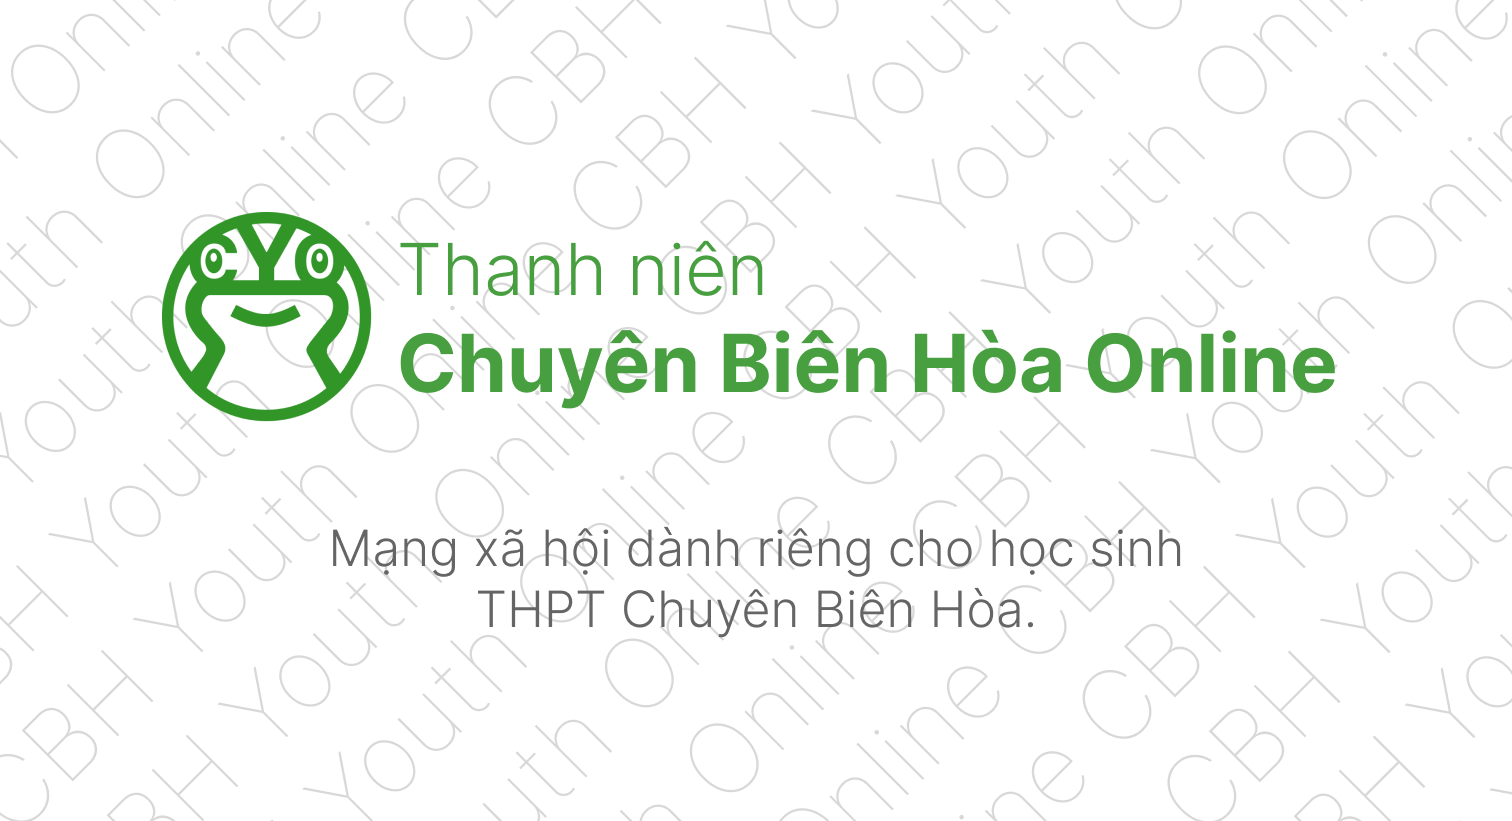
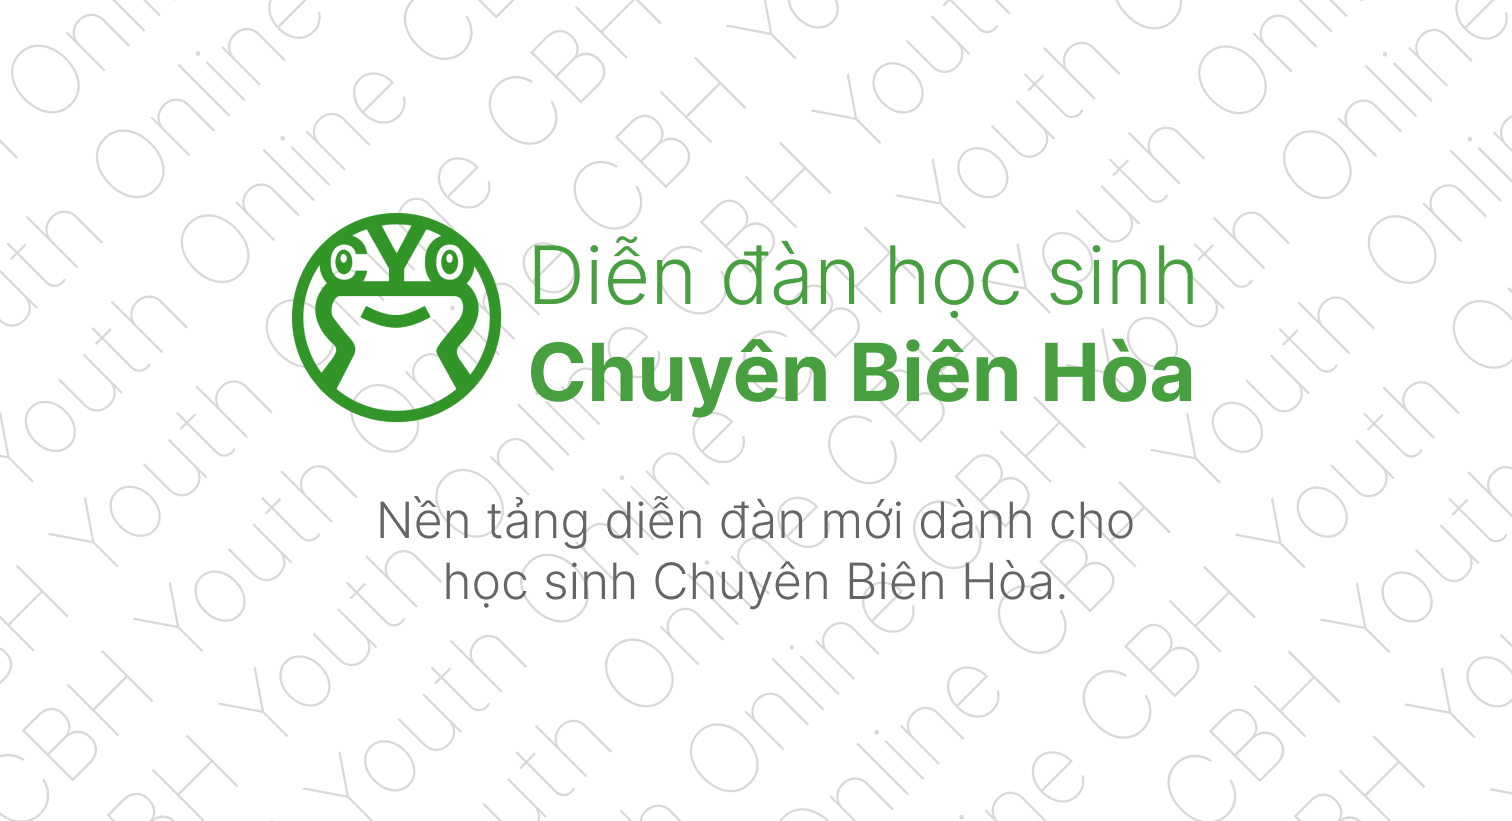
update head meta and image

Changed region(s): [[0.0933, 0.2436, 0.9015, 0.5177], [0.2176, 0.609, 0.7771, 0.7613]]

diff --git a/app/Views/includes/head.blade.php b/app/Views/includes/head.blade.php
@@ -3,7 +3,7 @@
 <title>{{ !empty($title) && $title != 'Diễn đàn' ? $title . ' - ' : '' }}Diễn đàn học sinh Chuyên Biên Hòa</title>
 <!-- Meta tag dành cho SEO -->
 <meta property="og:title"
-    content="{{ $title ?? 'Diễn đàn học sinh Chuyên Biên Hòa' == 'Diễn đàn' ? 'Diễn đàn Học sinh Chuyên Biên Hòa' : $title }}" />
+    content="{{ $title ?? 'Diễn đàn học sinh Chuyên Biên Hòa' == 'Diễn đàn' ? 'Diễn đàn học sinh Chuyên Biên Hòa' : $title }}" />
 <meta name="description"
     content="{{ $description ?? 'Diễn đàn học sinh Chuyên Biên Hòa thuộc Trường THPT Chuyên Hà Nam' }}">
 <meta property='og:description'
@@ -11,7 +11,7 @@
 <meta name="author" content="{{ $author ?? 'Đội ngũ CBH Youth Online' }}">
 <meta name="keywords"
     content="{{ $keywords ??
-        'thpt chuyen ha nam, thanh nien chuyen bien hoa, thanh nien chuyen bien hoa online, thpt chuyen bien hoa, chuyen bien hoa, chuyen ha nam, cyo, cbh youth online, chuyen bien hoa online, chuyên biên hòa online' }}">
+    'thpt chuyen ha nam, thanh nien chuyen bien hoa, thanh nien chuyen bien hoa online, thpt chuyen bien hoa, chuyen bien hoa, chuyen ha nam, cyo, cbh youth online, chuyen bien hoa online, chuyên biên hòa online' }}">
 <link rel="icon" href="/assets/images/logo.png" type="image/png" sizes="32x32" />
 <meta property="og:image" content="{{ $image ?? 'https://chuyenbienhoa.com/assets/images/cyo_thumbnail.png' }}" />
 <link rel='canonical' href='{{ 'https://' . $_SERVER['HTTP_HOST'] . $_SERVER['REQUEST_URI'] }}' />
@@ -26,10 +26,10 @@
     integrity="sha384-1BmE4kWBq78iYhFldvKuhfTAU6auU8tT94WrHftjDbrCEXSU1oBoqyl2QvZ6jIW3" crossorigin="anonymous">
 <script src="https://cdn.jsdelivr.net/npm/@popperjs/core@2.10.2/dist/umd/popper.min.js"
     integrity="sha384-7+zCNj/IqJ95wo16oMtfsKbZ9ccEh31eOz1HGyDuCQ6wgnyJNSYdrPa03rtR1zdB" crossorigin="anonymous">
-</script>
+    </script>
 <script src="https://cdn.jsdelivr.net/npm/bootstrap@5.1.3/dist/js/bootstrap.min.js"
     integrity="sha384-QJHtvGhmr9XOIpI6YVutG+2QOK9T+ZnN4kzFN1RtK3zEFEIsxhlmWl5/YESvpZ13" crossorigin="anonymous">
-</script>
+    </script>
 <!-- Bộ mã TailwindCSS -->
 <script src="https://cdn.tailwindcss.com"></script>
 <link href="https://cdn.jsdelivr.net/npm/@tailwindcss/typography@0.5.0/dist/typography.min.css" rel="stylesheet">
